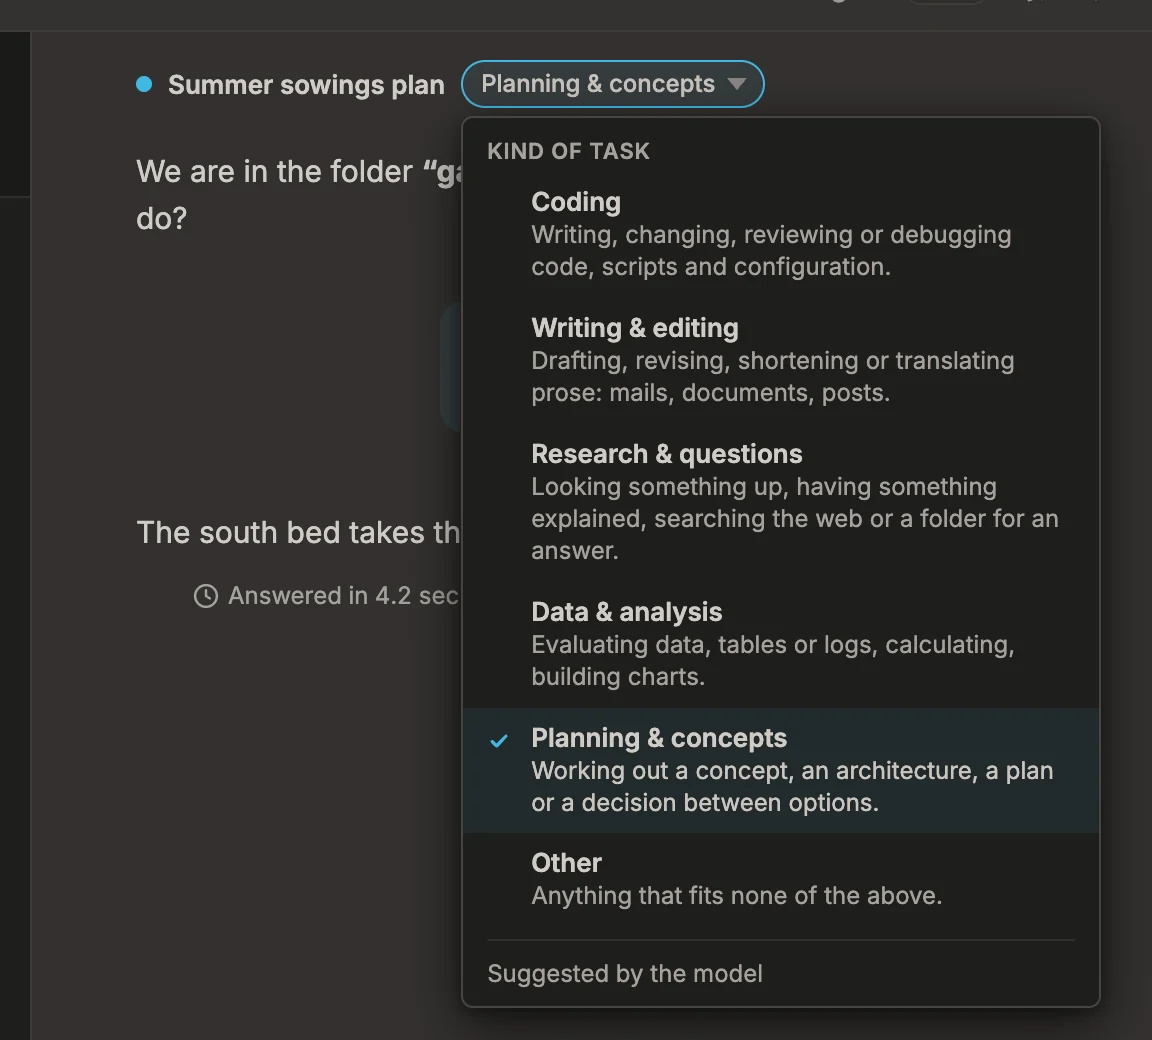
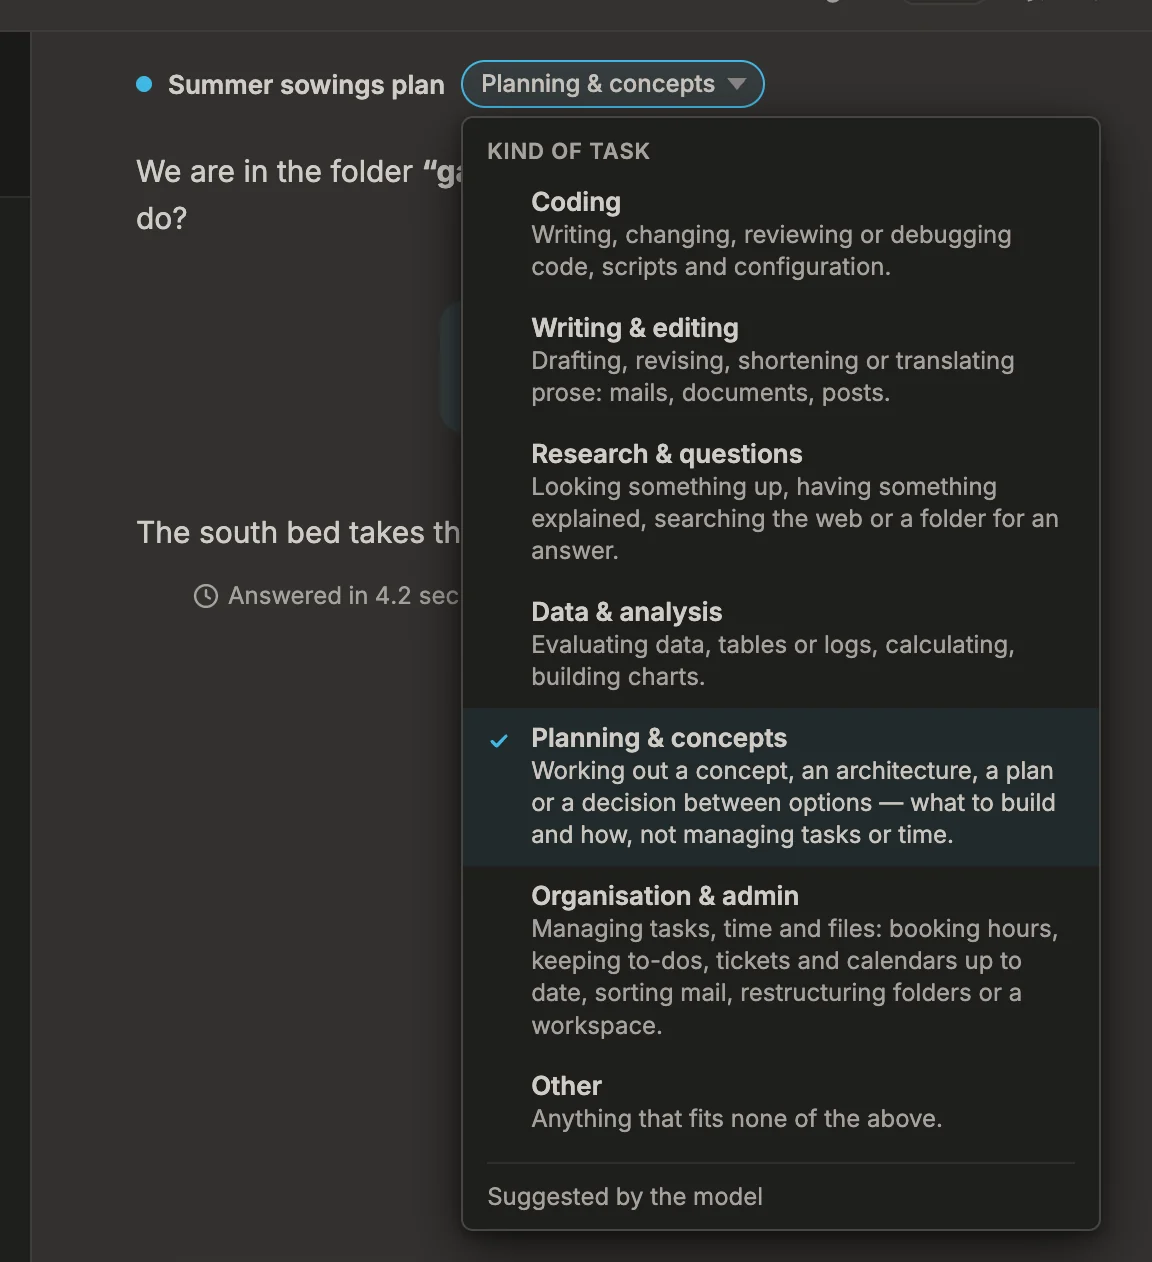
Add an 'Organisation & admin' kind of task (#1312) (#1313)
* Add an 'Organisation & admin' kind of task (#1312)

A seventh kind for organisational work: booking hours, keeping to-dos,
tickets and calendars up to date, sorting mail, restructuring folders or a
workspace. It sits right after Planning, whose definition now says where it
ends: what to build and how, not managing tasks or time. Like Planning it is
never estimated locally. Stored kinds need no migration.

Manual (EN/DE) and the concept document name the new kind.

* Regenerate the task kind screenshots with seven kinds (#1312)

---------

diff --git a/test/task-kind.test.js b/test/task-kind.test.js
@@ -18,8 +18,8 @@ const de = require('../src/shared/i18n/messages/de');
 
 const catalogue = (messages) => messages.default || messages.MESSAGES || messages;
 
-test('six fixed kinds, each with a definition and a name in both languages', () => {
-  assert.deepEqual([...TASK_KIND_IDS], ['coding', 'writing', 'research', 'data', 'planning', 'other']);
+test('seven fixed kinds, each with a definition and a name in both languages', () => {
+  assert.deepEqual([...TASK_KIND_IDS], ['coding', 'writing', 'research', 'data', 'planning', 'organisation', 'other']);
   for (const id of TASK_KIND_IDS) {
     assert.ok(TASK_KIND_DEFINITIONS[id], `${id} has a definition`);
     assert.equal(catalogue(en)[`taskKind.${id}.definition`], TASK_KIND_DEFINITIONS[id], `${id}: the English catalogue says what the model reads`);
@@ -32,6 +32,17 @@ test('six fixed kinds, each with a definition and a name in both languages', () 
   assert.equal(TASK_KIND_IDS.includes('unclassified'), false);
   assert.equal(catalogue(de)['taskKind.unclassified'], 'Nicht eingeordnet');
   assert.match(taskKindPromptList(), /^- coding: Writing, changing/);
+});
+
+test('organisation is a kind of its own, and planning says where it ends (#1312)', () => {
+  assert.equal(parseTaskKindAnswer('organisation'), 'organisation');
+  assert.match(TASK_KIND_DEFINITIONS.organisation, /booking hours/);
+  assert.match(TASK_KIND_DEFINITIONS.planning, /not managing tasks or time/);
+  // Right after planning, so the two related kinds sit next to each other.
+  assert.equal(TASK_KIND_IDS.indexOf('organisation'), TASK_KIND_IDS.indexOf('planning') + 1);
+  assert.match(taskKindPromptList(), /\n- organisation: Managing tasks, time and files/);
+  assert.equal(catalogue(en)['taskKind.organisation'], 'Organisation & admin');
+  assert.equal(catalogue(de)['taskKind.organisation'], 'Organisation & Verwaltung');
 });
 
 test('a stored kind is normalised; an unknown one is kept but counts as unclassified', () => {

diff --git a/src/shared/contracts/task-kind.js b/src/shared/contracts/task-kind.js
@@ -1,7 +1,7 @@
 /**
  * The kind of task a chat is about (#1281, concept `docs/concepts/task-kinds-concept.md`).
  *
- * Every chat gets one of six fixed kinds, so that the usage report can say
+ * Every chat gets one of seven fixed kinds, so that the usage report can say
  * what the money was spent on. What is stored is the id, never a label:
  *
  *   taskKind: { id: 'coding', source: 'model', at: '2026-10-25T14:20:10.000Z' }
@@ -14,7 +14,7 @@
  */
 'use strict';
 
-/** @typedef {'coding' | 'writing' | 'research' | 'data' | 'planning' | 'other'} TaskKindId */
+/** @typedef {'coding' | 'writing' | 'research' | 'data' | 'planning' | 'organisation' | 'other'} TaskKindId */
 /** @typedef {'model' | 'estimate' | 'user'} TaskKindSource */
 
 /**
@@ -29,7 +29,7 @@
  */
 
 /** @type {readonly TaskKindId[]} */
-const TASK_KIND_IDS = Object.freeze(['coding', 'writing', 'research', 'data', 'planning', 'other']);
+const TASK_KIND_IDS = Object.freeze(['coding', 'writing', 'research', 'data', 'planning', 'organisation', 'other']);
 
 /** @type {readonly TaskKindSource[]} */
 const TASK_KIND_SOURCES = Object.freeze(['model', 'estimate', 'user']);
@@ -46,7 +46,9 @@ const TASK_KIND_DEFINITIONS = Object.freeze({
   writing: 'Drafting, revising, shortening or translating prose: mails, documents, posts.',
   research: 'Looking something up, having something explained, searching the web or a folder for an answer.',
   data: 'Evaluating data, tables or logs, calculating, building charts.',
-  planning: 'Working out a concept, an architecture, a plan or a decision between options.',
+  planning: 'Working out a concept, an architecture, a plan or a decision between options — what to build and how, not managing tasks or time.',
+  organisation:
+    'Managing tasks, time and files: booking hours, keeping to-dos, tickets and calendars up to date, sorting mail, restructuring folders or a workspace.',
   other: 'Anything that fits none of the above.',
 });
 

diff --git a/test/chat-task-kind-dom.test.js b/test/chat-task-kind-dom.test.js
@@ -93,7 +93,7 @@ test('opening lists the six kinds with their definitions, the current one select
   pill.click();
   assert.equal(menu.classList.contains('hidden'), false);
   assert.equal(pill.getAttribute('aria-expanded'), 'true');
-  assert.deepEqual(options().map((o) => o.dataset.kind), ['coding', 'writing', 'research', 'data', 'planning', 'other']);
+  assert.deepEqual(options().map((o) => o.dataset.kind), ['coding', 'writing', 'research', 'data', 'planning', 'organisation', 'other']);
   assert.ok(options()[3].textContent.includes('Evaluating data, tables or logs'));
   assert.equal(document.activeElement, options()[3]);
   assert.equal(options()[3].getAttribute('aria-selected'), 'true');
@@ -112,11 +112,11 @@ test('the arrow keys move and wrap, Home and End jump, Escape closes back to the
   const { pill, menu, document, options, key } = await setup();
   pill.click();
   key(document.activeElement, 'ArrowUp');
-  assert.equal(document.activeElement, options()[5]);
+  assert.equal(document.activeElement, options().at(-1));
   key(document.activeElement, 'ArrowDown');
   assert.equal(document.activeElement, options()[0]);
   key(document.activeElement, 'End');
-  assert.equal(document.activeElement, options()[5]);
+  assert.equal(document.activeElement, options().at(-1));
   key(document.activeElement, 'Home');
   assert.equal(document.activeElement, options()[0]);
   assert.equal(options().filter((o) => o.tabIndex === 0).length, 1, 'one tab stop for the list');

diff --git a/test/usage-report-dom.test.js b/test/usage-report-dom.test.js
@@ -290,14 +290,14 @@ test('by kind of task: rows with what each kind means, unclassified last, a chip
   assert.equal(chip().getAttribute('aria-expanded'), 'true');
   const options = [...menu.querySelectorAll('[role="option"]')];
   assert.deepEqual(options.map((o) => o.querySelector('.usage-kind__option-name').textContent),
-    ['Coding', 'Writing & editing', 'Research & questions', 'Data & analysis', 'Planning & concepts', 'Other']);
+    ['Coding', 'Writing & editing', 'Research & questions', 'Data & analysis', 'Planning & concepts', 'Organisation & admin', 'Other']);
   assert.equal(ui.document.activeElement, options[0]);
   assert.equal(options[0].getAttribute('aria-selected'), 'true');
   const key = (name) => ui.document.activeElement.dispatchEvent(new ui.dom.window.KeyboardEvent('keydown', { key: name, bubbles: true }));
   key('ArrowDown');
   assert.equal(ui.document.activeElement, options[1]);
   key('End');
-  assert.equal(ui.document.activeElement, options[5]);
+  assert.equal(ui.document.activeElement, options.at(-1));
   // Escape closes the menu, not the dialog, and gives the focus back to the chip.
   key('Escape');
   assert.equal(ui.$('.usage-kind__menu'), null);

diff --git a/src/shared/i18n/messages/de.js b/src/shared/i18n/messages/de.js
@@ -1943,7 +1943,9 @@ module.exports = {
   'taskKind.data': 'Daten & Analyse',
   'taskKind.data.definition': 'Daten, Tabellen oder Logs auswerten, rechnen, Diagramme bauen.',
   'taskKind.planning': 'Planung & Konzepte',
-  'taskKind.planning.definition': 'Ein Konzept, eine Architektur, einen Plan oder eine Entscheidung zwischen Optionen ausarbeiten.',
+  'taskKind.planning.definition': 'Ein Konzept, eine Architektur, einen Plan oder eine Entscheidung zwischen Optionen ausarbeiten — was gebaut wird und wie, nicht Aufgaben oder Zeit verwalten.',
+  'taskKind.organisation': 'Organisation & Verwaltung',
+  'taskKind.organisation.definition': 'Aufgaben, Zeit und Dateien verwalten: Zeiten buchen, To-dos, Tickets und Kalender pflegen, Mails sortieren, Ordner oder einen Workspace umbauen.',
   'taskKind.other': 'Sonstiges',
   'taskKind.other.definition': 'Alles, was zu keiner der anderen Arten passt.',
   'taskKind.unclassified': 'Nicht eingeordnet',

diff --git a/src/shared/i18n/messages/en.js b/src/shared/i18n/messages/en.js
@@ -1936,7 +1936,9 @@ module.exports = {
   'taskKind.data': 'Data & analysis',
   'taskKind.data.definition': 'Evaluating data, tables or logs, calculating, building charts.',
   'taskKind.planning': 'Planning & concepts',
-  'taskKind.planning.definition': 'Working out a concept, an architecture, a plan or a decision between options.',
+  'taskKind.planning.definition': 'Working out a concept, an architecture, a plan or a decision between options — what to build and how, not managing tasks or time.',
+  'taskKind.organisation': 'Organisation & admin',
+  'taskKind.organisation.definition': 'Managing tasks, time and files: booking hours, keeping to-dos, tickets and calendars up to date, sorting mail, restructuring folders or a workspace.',
   'taskKind.other': 'Other',
   'taskKind.other.definition': 'Anything that fits none of the above.',
   'taskKind.unclassified': 'Unclassified',

diff --git a/src/renderer/index.html b/src/renderer/index.html
@@ -350,7 +350,7 @@
             <span id="chat-live-dot" class="chat-live-dot" role="img" aria-label="Connection active" data-i18n-attr="aria-label:chat.connectionActive"></span>
             <span id="chat-title" data-i18n="chat.title">Chat</span>
             <!-- The chat's kind of task (#1282): a pill after the title that
-                 opens the six kinds and says where the current one came from.
+                 opens the seven kinds and says where the current one came from.
                  Hidden until the chat has a question in it. -->
             <span class="chat-kind-wrap hidden" id="chat-kind-wrap">
               <button type="button" id="btn-chat-kind" class="chat-kind-pill"

diff --git a/src/application/chat/task-kind-estimate.js b/src/application/chat/task-kind-estimate.js
@@ -4,8 +4,8 @@
  * Snotra's own guess at a chat's kind of task (#1281, concept §4), for when
  * the model gave none: from the tools the chat used and the files they wrote.
  * It answers only when one signal clearly dominates and otherwise leaves the
- * chat unclassified rather than guess. *Planning* and *Other* are never
- * estimated: no tool tells them apart.
+ * chat unclassified rather than guess. *Planning*, *Organisation* and *Other*
+ * are never estimated: no tool tells them apart.
  *
  * @typedef {import('../../shared/contracts/task-kind').TaskKindId} TaskKindId
  */

diff --git a/src/renderer/components/UsageReportDialog.js b/src/renderer/components/UsageReportDialog.js
@@ -779,7 +779,7 @@ export function initUsageReportDialog({ api, getActiveRoot, openFolder, openChat
     return taskKind ? t(`taskKind.${taskKind}`) : t('usage.taskKind.choose');
   }
 
-  /** The chip that shows a chat's kind and opens the choice of the six. */
+  /** The chip that shows a chat's kind and opens the choice of the seven. */
   function kindControl(chat, focusKey) {
     const wrap = el('span', 'usage-kind');
     const chip = el('button', `usage-kind__chip${chat.taskKind ? '' : ' usage-kind__chip--none'}`);

diff --git a/src/renderer/components/ChatTaskKind.js b/src/renderer/components/ChatTaskKind.js
@@ -13,7 +13,7 @@ const SOURCE_KEYS = Object.freeze({
 
 /**
  * The chat's kind of task in the header (#1282, concept #1259 section 6): a
- * pill after the title — variant A of the mockup — that opens the six kinds
+ * pill after the title — variant A of the mockup — that opens the seven kinds
  * and says where the current one came from. A pick is stored as the user's.
  *
  * The kind on screen is `appStore.currentChatTaskKind`; whoever switches the

diff --git a/src/renderer/styles.css b/src/renderer/styles.css
@@ -13888,7 +13888,7 @@ select.modal-input {
 }
 
 /* A chat's kind of task (#1283): a chip that invites a choice and opens the
- * six kinds with what each one means. Decided 2026-10-30 from a mockup of
+ * seven kinds with what each one means. Decided 2026-10-30 from a mockup of
  * three variants (a select, this chip, an inline row of pills). */
 .usage-kind {
   position: relative;

diff --git a/manual/src/content/docs/de/chatting/usage-report.md b/manual/src/content/docs/de/chatting/usage-report.md
@@ -24,18 +24,18 @@ Chats, die ein Modell genutzt haben. Einrichten musst du nichts: Der Bericht lie
 4. Wähle, wonach die Tabelle gruppiert: nach *Modell*, nach *Workspace* oder [seit 1.29] nach *Aufgabenart*. Klick auf eine Spaltenüberschrift, um danach zu sortieren; ein zweiter Klick kehrt die Reihenfolge um.
 5. Klick auf den Pfeil vor einer Zeile, um sie aufzuklappen. Ein Workspace oder eine Aufgabenart zeigt die Modelle, die dafür genutzt wurden, ein Modell die Workspaces, in denen es lief, und jede Zeile ihre Tokens nach Art.
 6. Klick in einer Zeile auf *n Chats*, um die Chats dahinter aufzulisten, mit ihrer Aufgabenart, dem, was jeder verbraucht hat, und wann er zuletzt genutzt wurde. *Öffnen* bringt dich zum Chat – in seinem eigenen Ordner: Ist ein anderer Ordner offen, wechselt Snotra zuerst dorthin.
-7. [seit 1.29] Um die Aufgabenart eines Chats zu ändern, klick auf die Art neben seinen Kosten – *Art wählen*, wenn er noch keine hat – und wähl eine der sechs. Zu jeder steht eine Zeile, was sie umfasst. Die Zahlen ziehen sofort nach: Nach Aufgabenart gruppiert, wandert der Chat in seine neue Zeile.
+7. [seit 1.29] Um die Aufgabenart eines Chats zu ändern, klick auf die Art neben seinen Kosten – *Art wählen*, wenn er noch keine hat – und wähl eine der sieben. Zu jeder steht eine Zeile, was sie umfasst. Die Zahlen ziehen sofort nach: Nach Aufgabenart gruppiert, wandert der Chat in seine neue Zeile.
 8. Schließ den Bericht mit *Schließen*, dem Kreuz oder `Esc`. Der Fokus kehrt dorthin zurück, wo er war.
 
 ![Der Bericht nach Workspace gruppiert: der erste Ordner aufgeklappt in seine Modelle und seine Token-Aufschlüsselung, darunter seine Chats, jeder mit seiner Aufgabenart, seinen Kosten und einem Knopf Öffnen.](screenshots/usage-report-chats.webp)
 
-![Der Bericht nach Aufgabenart gruppiert: Programmieren aufgeklappt in die Modelle, die dafür liefen, darunter seine Chats mit ihrer Art, und beim ersten Chat die Auswahl der sechs Arten geöffnet.](screenshots/usage-report-kinds.webp)
+![Der Bericht nach Aufgabenart gruppiert: Programmieren aufgeklappt in die Modelle, die dafür liefen, darunter seine Chats mit ihrer Art, und beim ersten Chat die Auswahl der sieben Arten geöffnet.](screenshots/usage-report-kinds.webp)
 
 ## Was passiert
 
 - **Der Zeitraum zählt, was in ihm verbraucht wurde.** Ein Chat, der über drei Wochen lief, trägt zu jeder Woche nur bei, was er in dieser Woche verbraucht hat – nicht seine ganzen Kosten an dem Tag, an dem er begann oder zuletzt geöffnet wurde. Tage sind deine lokalen Kalendertage.
 - **Jede Ansicht ergibt dieselbe Summe.** Jede Anfrage zählt einmal beim Modell, einmal beim Workspace und einmal bei der Aufgabenart, daher stimmen die drei Tabellen, das Diagramm und die Summen überein.
-- **Die sechs Aufgabenarten** sind *Programmieren*, *Schreiben & Überarbeiten*, *Recherche & Fragen*, *Daten & Analyse*, *Planung & Konzepte* und *Sonstiges*. Ein Chat bekommt seine Art, wenn er seinen Namen bekommt: Das Modell schlägt sie zusammen mit dem Titel vor, und klappt das nicht, schätzt Snotra sie aus dem, was im Chat passiert ist. Deine eigene Wahl gilt immer und wird nie ersetzt.
+- **Die sieben Aufgabenarten** sind *Programmieren*, *Schreiben & Überarbeiten*, *Recherche & Fragen*, *Daten & Analyse*, *Planung & Konzepte*, *Organisation & Verwaltung* [seit 1.30] und *Sonstiges*. Ein Chat bekommt seine Art, wenn er seinen Namen bekommt: Das Modell schlägt sie zusammen mit dem Titel vor, und klappt das nicht, schätzt Snotra sie aus dem, was im Chat passiert ist. Deine eigene Wahl gilt immer und wird nie ersetzt.
 - **Chats ohne Art bilden eine eigene Zeile,** *Nicht eingeordnet*, in der Tabelle nach Aufgabenart immer ganz unten, damit nichts aus der Summe fällt. Chats von vor 1.29 bleiben dort, bis du sie fortsetzt oder ihnen eine Art gibst.
 - **Ein unbekannter Preis zeigt einen Strich.** Ein Modell, das die Preistabelle nicht kennt, zeigt *–* und *kein Preis*, nie *0,00 $*, und eine Summe, die solche Anfragen auslässt, endet auf *+*, zum Beispiel *~3,62 $+*. Lege unter *Einstellungen › Modelle* einen Preis dafür fest, wie in [Sehen, was ein Chat kostet](../chat-cost/) beschrieben.
 - **Ein Modell auf deinem Rechner kostet nichts.** Ollama, LM Studio und andere Server unter einer lokalen Adresse zeigen ihre Tokens und *0,00 $ lokal*.
